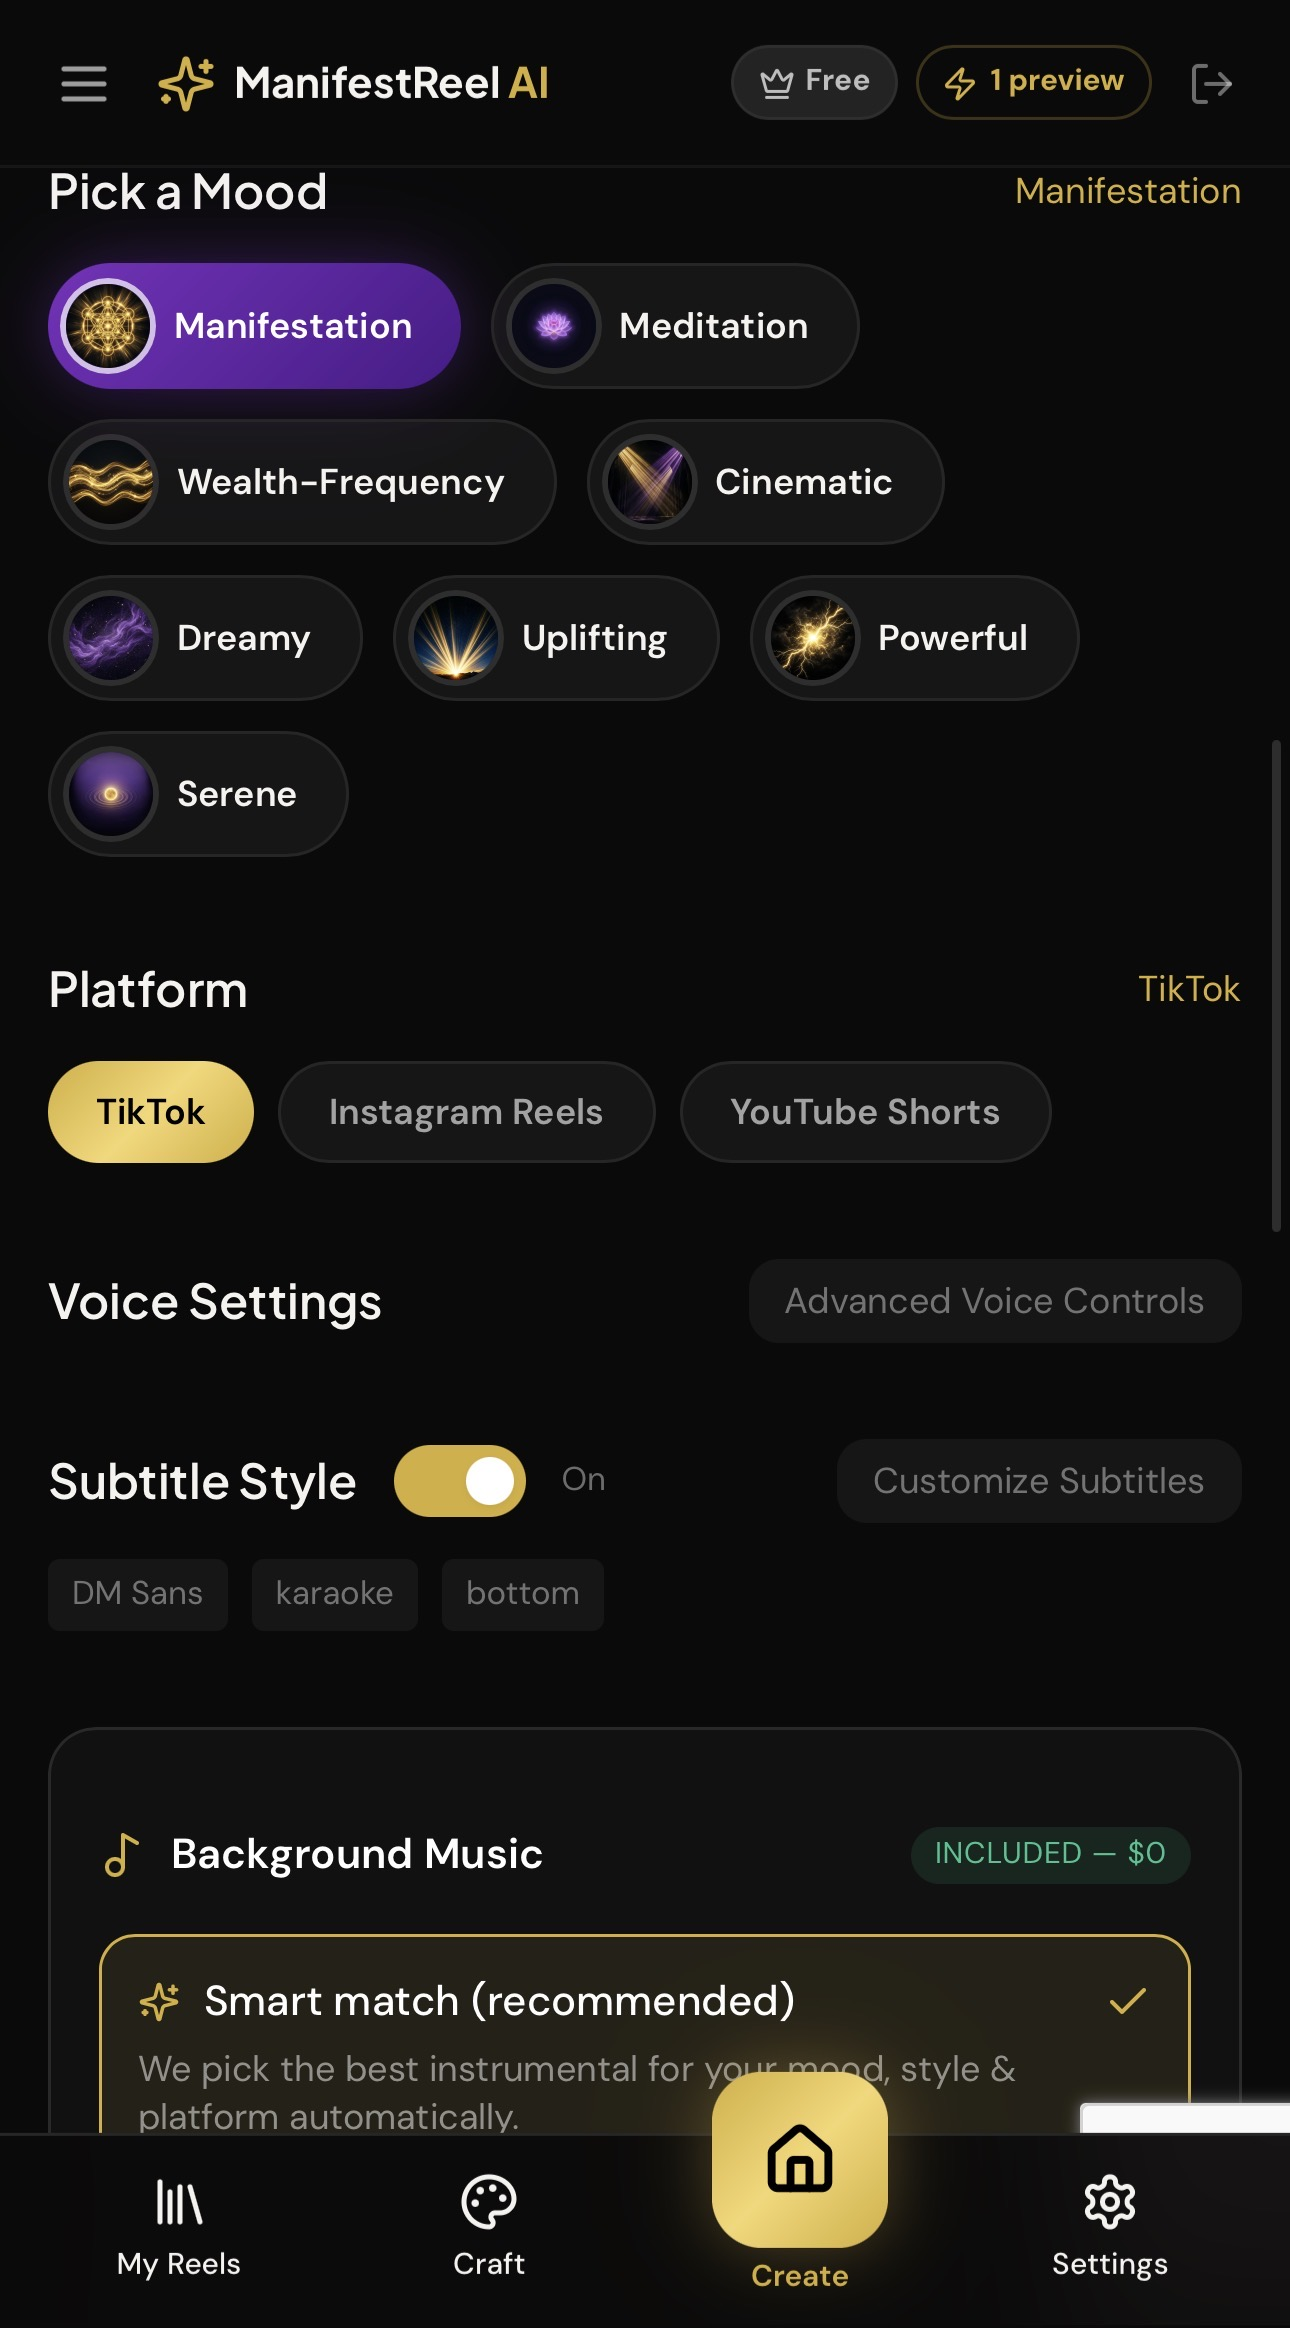
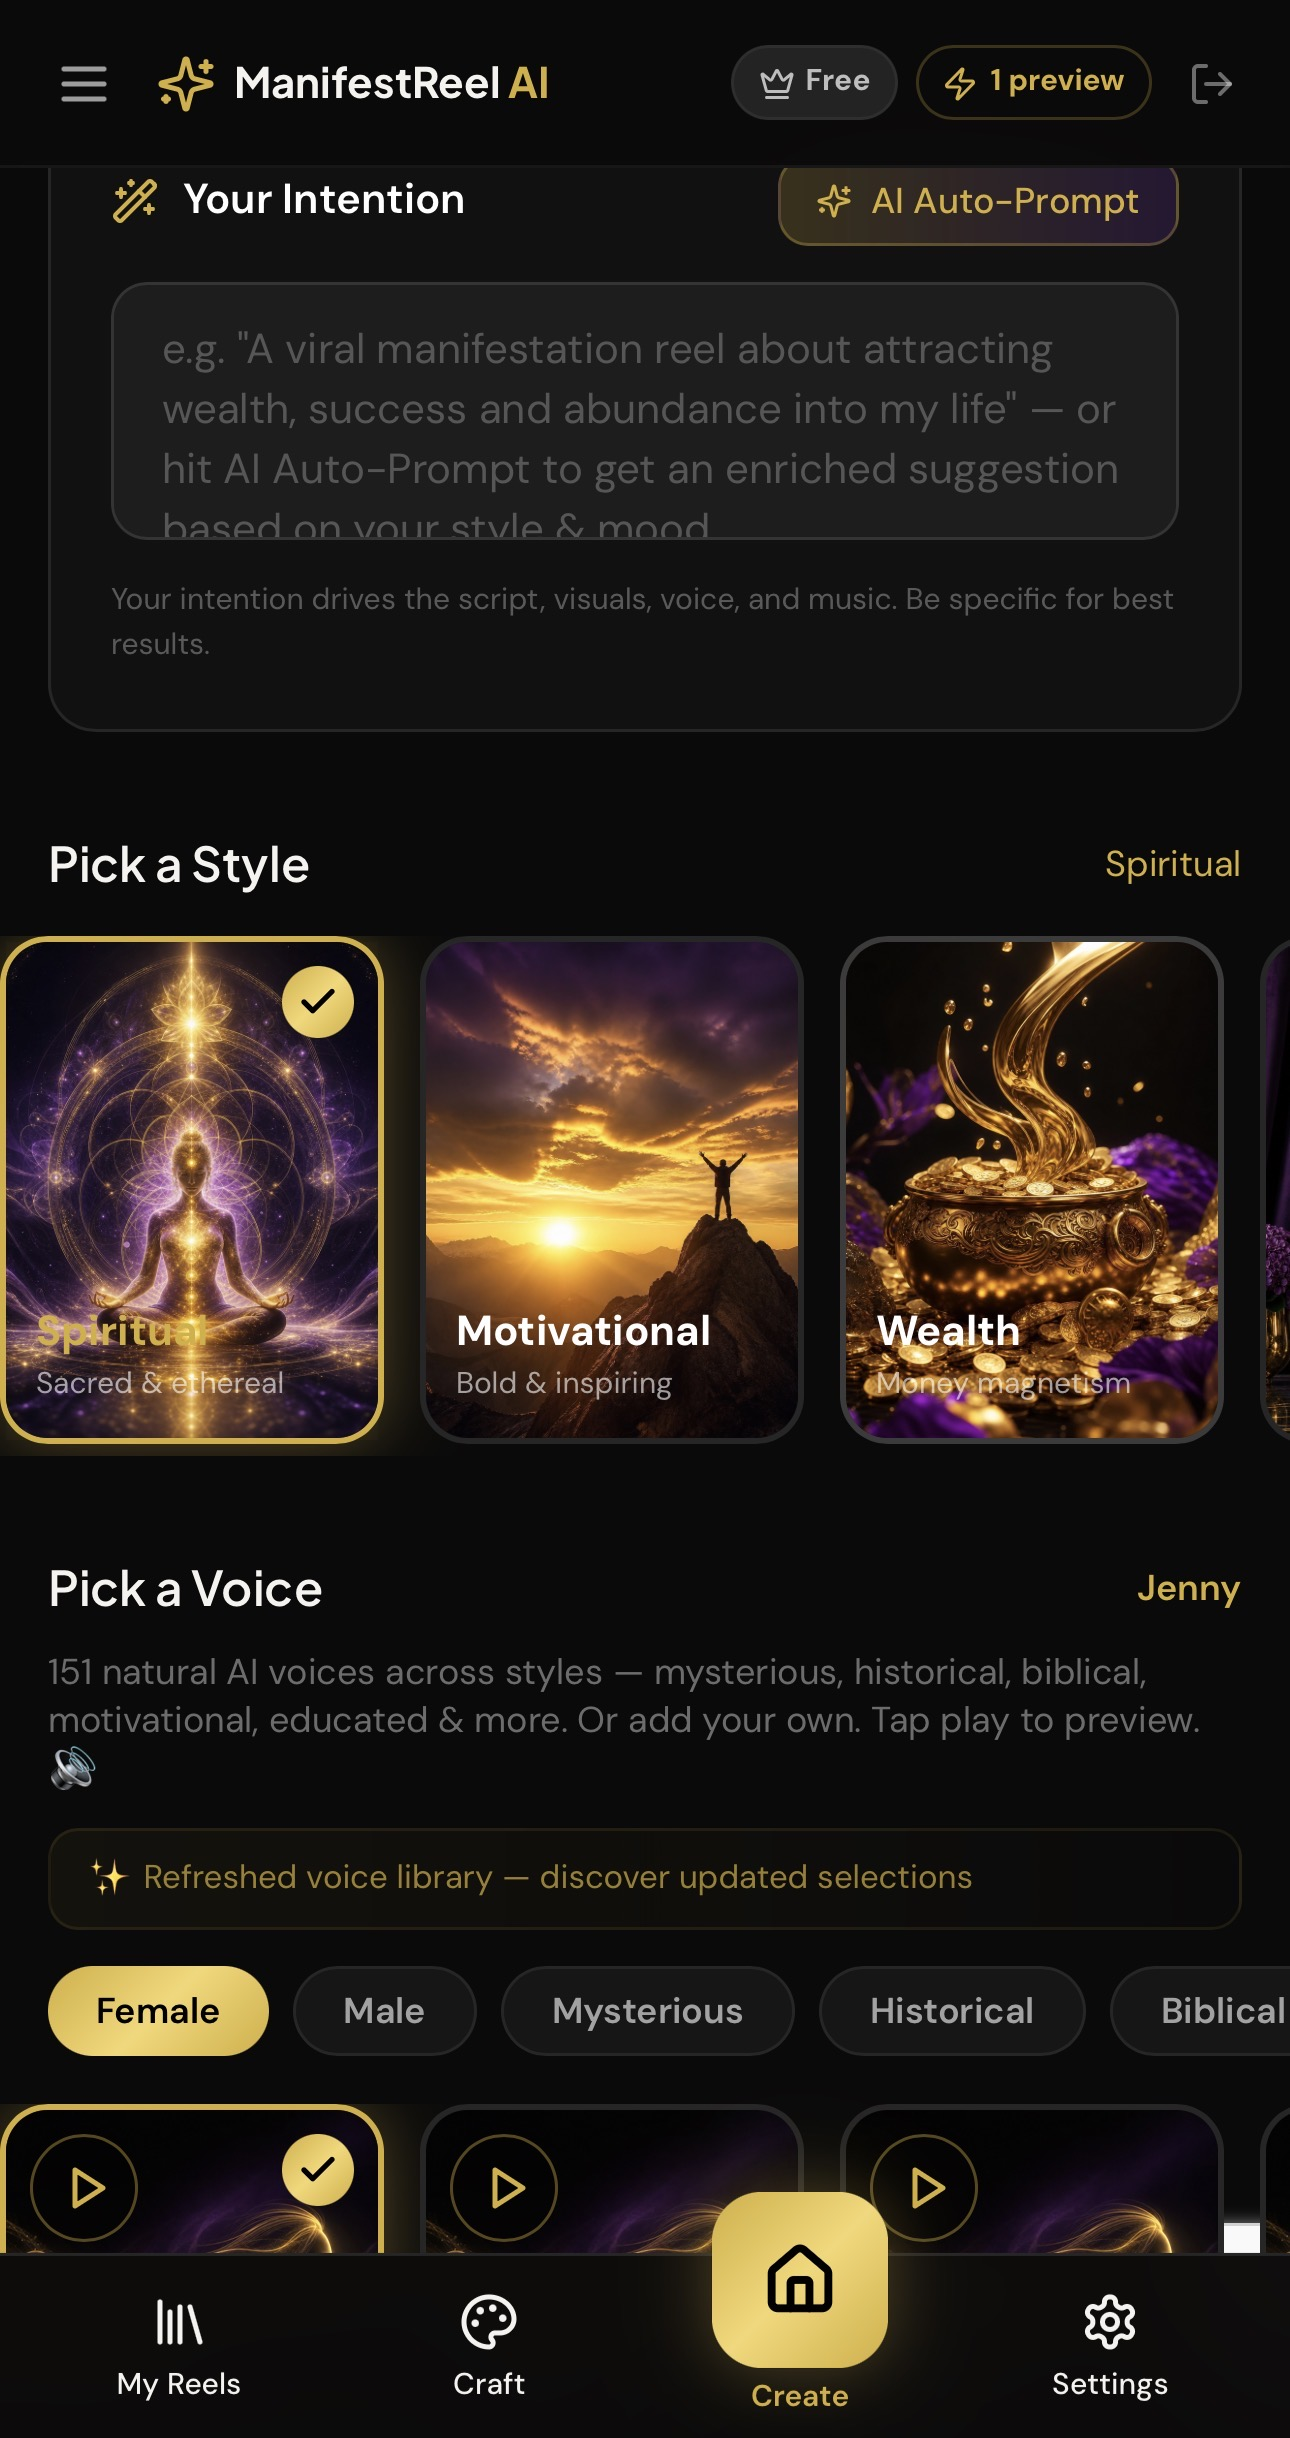
Replace left mockup with new craft screenshot

diff --git a/nextjs_space/app/_components/landing-page.tsx b/nextjs_space/app/_components/landing-page.tsx
@@ -773,13 +773,13 @@ export function LandingPage() {
 
             {/* Right — Phone Mockups with real screenshots */}
             <motion.div initial="hidden" whileInView="visible" viewport={{ once: true }} variants={fadeUp} className="flex items-end gap-4 md:gap-6 shrink-0">
-              {/* Phone 1 — Craft Screen (1290×2328 → aspect 43/77.6 ≈ 9/16.2) */}
+              {/* Phone 1 — Craft Screen (1290×2438) */}
               <div className="relative w-[150px] md:w-[200px] lg:w-[220px]">
                 <div className="rounded-[28px] md:rounded-[36px] border-[2.5px] border-white/15 bg-black overflow-hidden shadow-2xl shadow-black/60">
                   {/* Notch */}
                   <div className="absolute top-0 left-1/2 -translate-x-1/2 w-16 md:w-20 h-5 md:h-6 bg-black rounded-b-2xl z-20" />
                   {/* Screenshot — natural ratio, no cropping */}
-                  <div className="relative w-full" style={{ aspectRatio: '1290 / 2328' }}>
+                  <div className="relative w-full" style={{ aspectRatio: '1290 / 2438' }}>
                     <Image src="/showcase/app-screen-craft.jpg" alt="ManifestReel AI craft screen showing mood picker, platform selection, voice settings, subtitle styles, and background music options" fill className="object-contain" sizes="220px" />
                   </div>
                 </div>